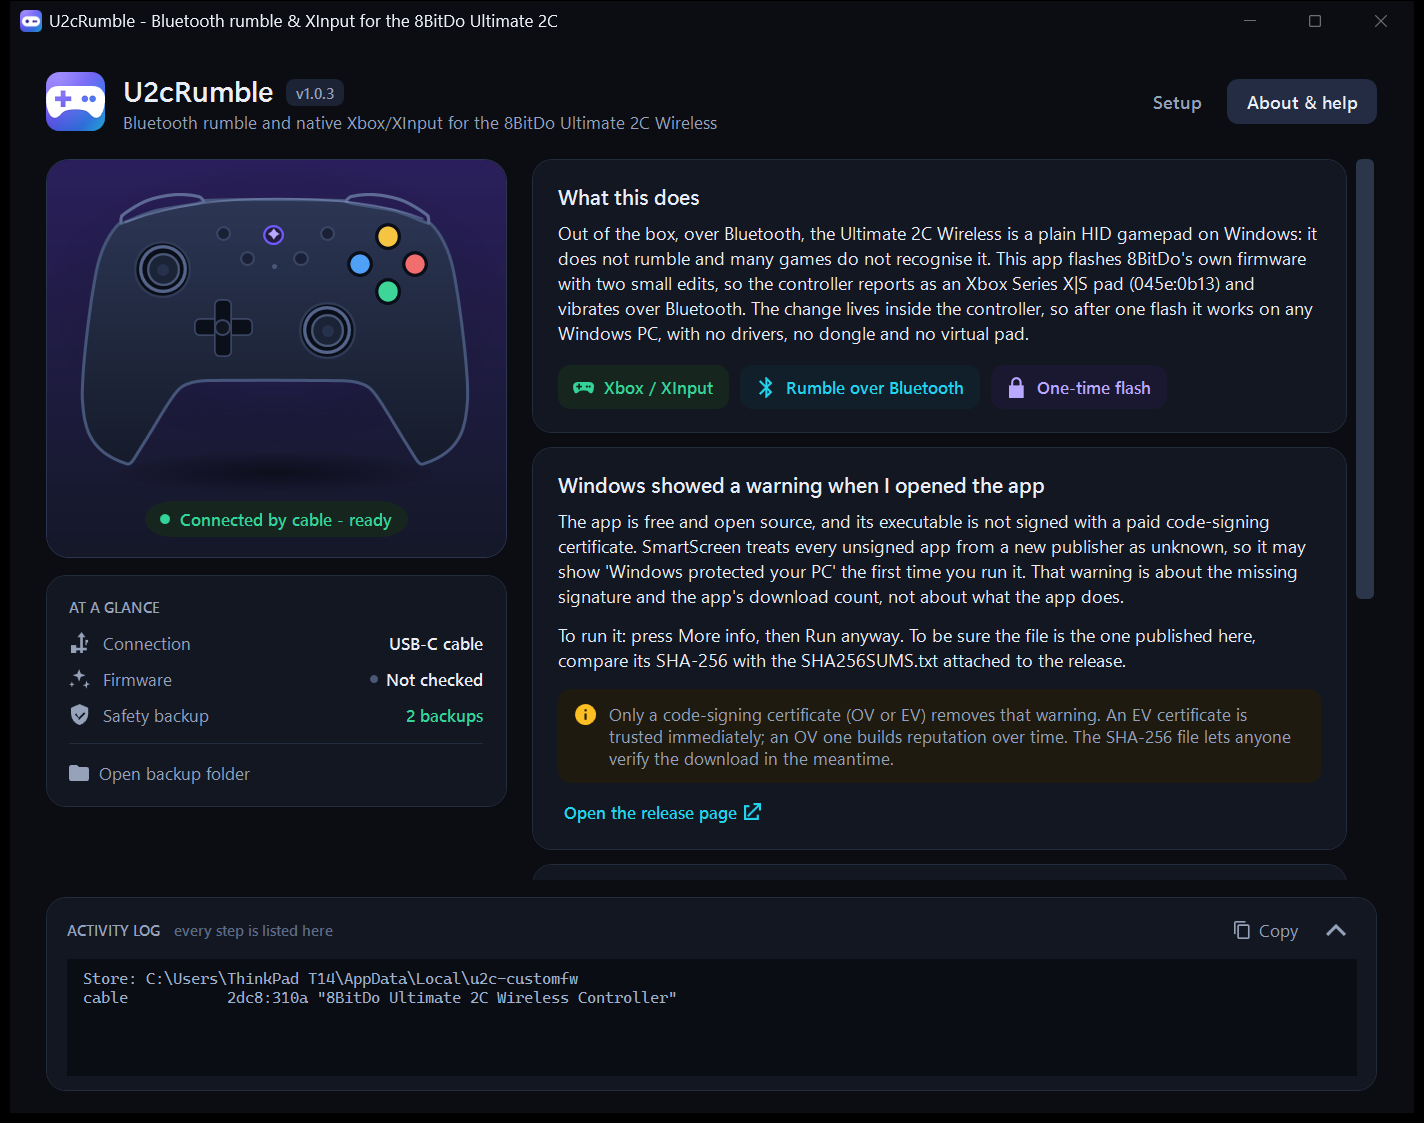
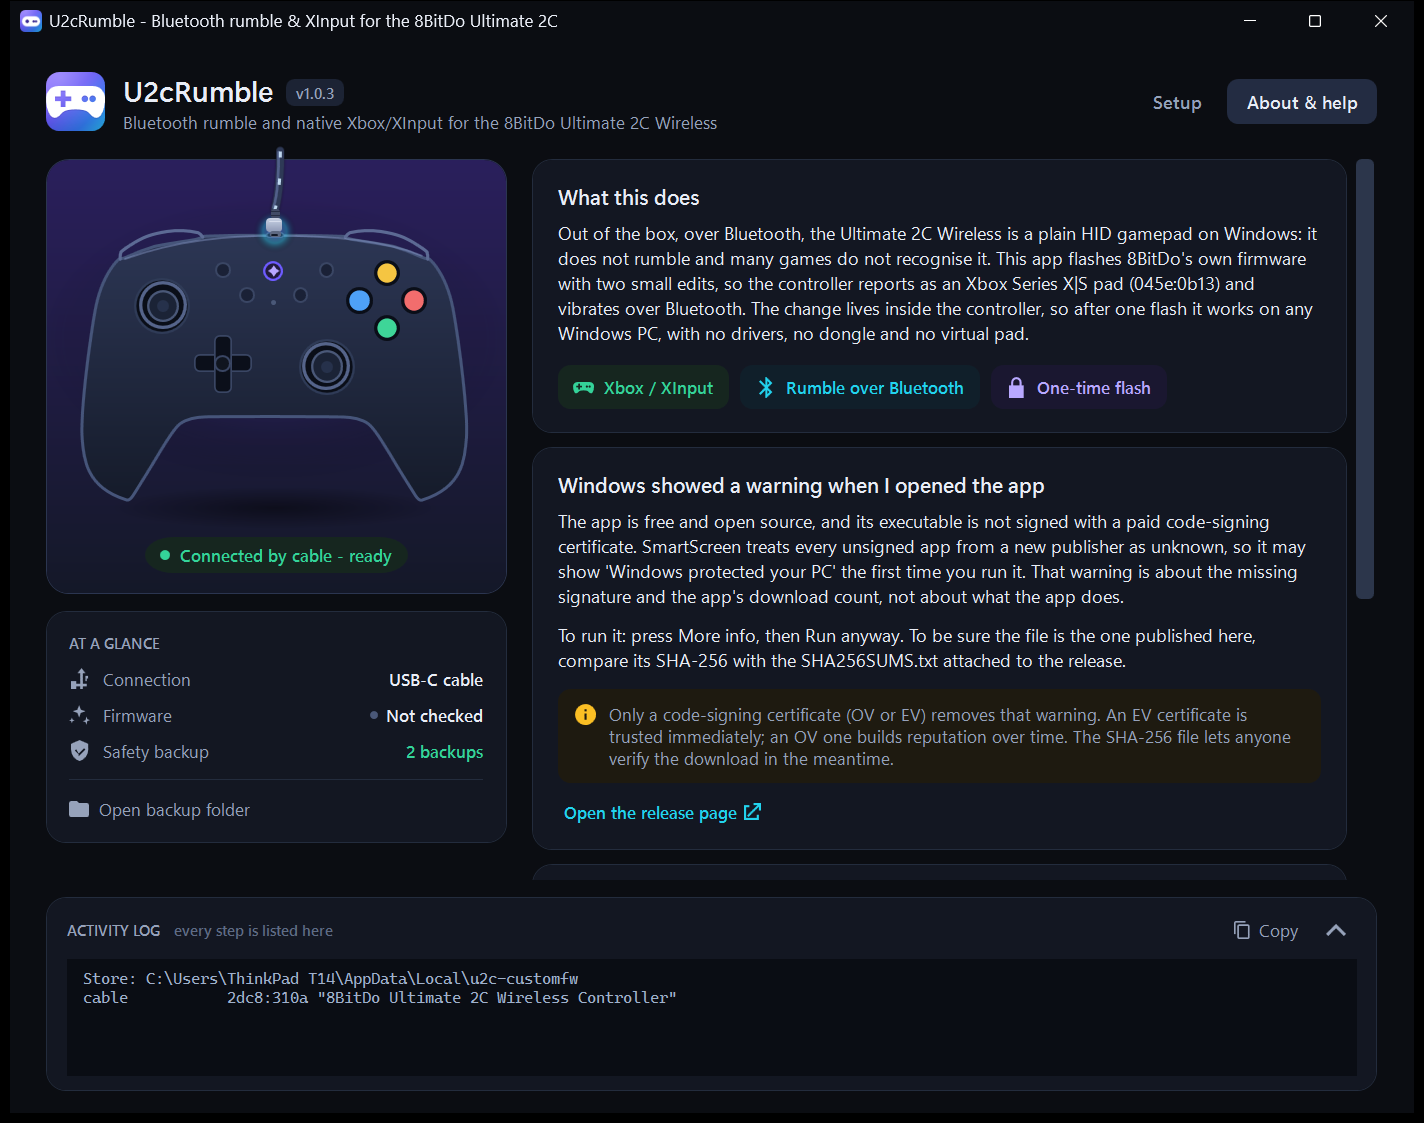
Keep the controller state live and draw the cable when it is plugged in
- Poll the HID devices every two seconds and only redraw when the mode changes.
- Drop the manual refresh button now that the window watches for the controller.
- Draw a straight USB-C cable with a pulsing glow and flowing dashes while the controller is on the cable.
- Give the illustration room for the cable and show the port on the top edge.
- Refresh the README screenshots.

diff --git a/app/U2cRumble/MainWindow.xaml b/app/U2cRumble/MainWindow.xaml
@@ -69,10 +69,10 @@
                 <Border Background="{StaticResource HeroGlow}" BorderBrush="#2B3550" BorderThickness="1"
                         CornerRadius="16" Padding="14,10,14,14">
                     <StackPanel>
-                        <Viewbox Height="232" Stretch="Uniform">
-                          <Canvas Width="246" Height="194">
+                        <Viewbox Height="258" Stretch="Uniform">
+                          <Canvas Width="246" Height="216">
                             <Canvas.RenderTransform>
-                                <TranslateTransform X="-78" Y="-32"/>
+                                <TranslateTransform X="-78" Y="-10"/>
                             </Canvas.RenderTransform>
                             <Canvas Width="400" Height="240">
                                 <!-- glow behind the body -->
@@ -185,6 +185,81 @@
                                          Fill="#221B3D" Stroke="#6D5BFF" StrokeThickness="1.4"/>
                                 <Path Fill="#B8A8FF"
                                       Data="M199 64.6 L200.4 66.6 L202.4 68 L200.4 69.4 L199 71.4 L197.6 69.4 L195.6 68 L197.6 66.6 Z"/>
+
+                                <!-- usb-c port on the top edge -->
+                                <Rectangle Canvas.Left="194.6" Canvas.Top="45.4" Width="10.8" Height="3.6"
+                                           RadiusX="1.5" RadiusY="1.5" Fill="#0A0E18" Stroke="#4A5878" StrokeThickness="0.8"/>
+
+                                <!-- cable plugged into the top edge, shown only over USB -->
+                                <Canvas x:Name="CableLayer" Opacity="0" Visibility="Collapsed" IsHitTestVisible="False">
+                                    <Canvas.Resources>
+                                        <Storyboard x:Key="CablePulse">
+                                            <DoubleAnimation Storyboard.TargetName="CableGlowScale" Storyboard.TargetProperty="ScaleX"
+                                                             From="0.9" To="1.12" Duration="0:0:1.6" AutoReverse="True"
+                                                             RepeatBehavior="Forever"/>
+                                            <DoubleAnimation Storyboard.TargetName="CableGlowScale" Storyboard.TargetProperty="ScaleY"
+                                                             From="0.9" To="1.12" Duration="0:0:1.6" AutoReverse="True"
+                                                             RepeatBehavior="Forever"/>
+                                            <DoubleAnimation Storyboard.TargetName="CableGlow" Storyboard.TargetProperty="Opacity"
+                                                             From="0.18" To="0.42" Duration="0:0:1.6" AutoReverse="True"
+                                                             RepeatBehavior="Forever"/>
+                                            <DoubleAnimation Storyboard.TargetName="CableFlow" Storyboard.TargetProperty="StrokeDashOffset"
+                                                             From="0" To="-11" Duration="0:0:1.2" RepeatBehavior="Forever"/>
+                                        </Storyboard>
+                                    </Canvas.Resources>
+
+                                    <Ellipse x:Name="CableGlow" Canvas.Left="188" Canvas.Top="32" Width="24" Height="24"
+                                             Opacity="0.26" IsHitTestVisible="False">
+                                        <Ellipse.Fill>
+                                            <RadialGradientBrush>
+                                                <GradientStop Color="#8B6CFF" Offset="0"/>
+                                                <GradientStop Color="#22D3EE" Offset="0.55"/>
+                                                <GradientStop Color="#00000000" Offset="1"/>
+                                            </RadialGradientBrush>
+                                        </Ellipse.Fill>
+                                        <Ellipse.RenderTransform>
+                                            <ScaleTransform x:Name="CableGlowScale" CenterX="12" CenterY="12"/>
+                                        </Ellipse.RenderTransform>
+                                    </Ellipse>
+
+                                    <!-- straight cable that leaves the frame at the top -->
+                                    <Path Stroke="#2E3956" StrokeThickness="4.8" StrokeStartLineCap="Round" StrokeEndLineCap="Round"
+                                          Data="M203.2,-4 C203.4,8 202.6,22 200,31.5">
+                                        <Path.Effect>
+                                            <DropShadowEffect BlurRadius="3" ShadowDepth="0" Opacity="0.45" Color="#05070D"/>
+                                        </Path.Effect>
+                                    </Path>
+                                    <Path Stroke="#5A6A96" StrokeThickness="1.6" Opacity="0.8"
+                                          StrokeStartLineCap="Round" StrokeEndLineCap="Round"
+                                          Data="M201.9,-3 C202.1,8.6 201.4,21.8 198.8,30"/>
+                                    <Path x:Name="CableFlow" Stroke="#CFE9FF" StrokeThickness="1.8" Opacity="0.9"
+                                          StrokeStartLineCap="Round" StrokeEndLineCap="Round"
+                                          StrokeDashArray="2 7"
+                                          Data="M203.2,-4 C203.4,8 202.6,22 200,31.5"/>
+
+                                    <!-- strain relief -->
+                                    <Rectangle Canvas.Left="197.4" Canvas.Top="30.6" Width="5.2" Height="6.6"
+                                               RadiusX="1.9" RadiusY="1.9" Fill="#414B66"/>
+                                    <Rectangle Canvas.Left="197.4" Canvas.Top="32.2" Width="5.2" Height="0.8" Fill="#252D42"/>
+                                    <Rectangle Canvas.Left="197.4" Canvas.Top="34.1" Width="5.2" Height="0.8" Fill="#252D42"/>
+
+                                    <!-- usb-c plug sitting on the port -->
+                                    <Rectangle Canvas.Left="195.2" Canvas.Top="36.6" Width="9.6" Height="8.4"
+                                               RadiusX="2.2" RadiusY="2.2">
+                                        <Rectangle.Fill>
+                                            <LinearGradientBrush StartPoint="0,0" EndPoint="0,1">
+                                                <GradientStop Color="#C8D1E4" Offset="0"/>
+                                                <GradientStop Color="#8C98B4" Offset="1"/>
+                                            </LinearGradientBrush>
+                                        </Rectangle.Fill>
+                                    </Rectangle>
+                                    <Rectangle Canvas.Left="196.4" Canvas.Top="37.7" Width="7.2" Height="1"
+                                               RadiusX="0.5" RadiusY="0.5" Fill="#EDF2FB" Opacity="0.55"/>
+                                    <Rectangle Canvas.Left="196.8" Canvas.Top="44.5" Width="6.4" Height="3.8"
+                                               RadiusX="1.4" RadiusY="1.4" Fill="#5E6982"/>
+                                    <Rectangle Canvas.Left="197.8" Canvas.Top="46" Width="4.4" Height="1.4"
+                                               RadiusX="0.7" RadiusY="0.7" Fill="#141A28"/>
+                                </Canvas>
                             </Canvas>
                           </Canvas>
                         </Viewbox>
@@ -312,11 +387,6 @@
                                             <TextBlock x:Name="ConnectionChipText" FontSize="11.5" FontWeight="SemiBold"
                                                        Foreground="{StaticResource MutedBrush}" Text="Not found"/>
                                         </Border>
-                                        <Button x:Name="RefreshButton" AutomationProperties.AutomationId="RefreshButton" Style="{StaticResource GhostButton}" Margin="6,0,0,0"
-                                                Click="Refresh_Click" ToolTip="Look for the controller again" Padding="6">
-                                            <Path Data="{StaticResource IconRefresh}" Width="15" Height="15" Stretch="Uniform"
-                                                  Fill="{Binding Foreground, RelativeSource={RelativeSource AncestorType=Button}}"/>
-                                        </Button>
                                     </StackPanel>
                                 </Grid>
                             </Border>

diff --git a/app/U2cRumble/Theme.xaml b/app/U2cRumble/Theme.xaml
@@ -63,7 +63,6 @@
     <Geometry x:Key="IconUndo">M12 5V1L7 6l5 5V7a6 6 0 1 1-6 6H4a8 8 0 1 0 8-8z</Geometry>
     <Geometry x:Key="IconShield">M12 1 3 5v6c0 5.5 3.8 10.7 9 12 5.2-1.3 9-6.5 9-12V5l-9-4zm-1 15-4-4 1.4-1.4L11 15.2l5.6-5.6L18 11l-7 7z</Geometry>
     <Geometry x:Key="IconCable">M15 7v4h1v2h-3V5h2L12 1 9 5h2v8H8v-2H4v6h4v-2h3v2h2v-2h3V9h1V7h-2z</Geometry>
-    <Geometry x:Key="IconRefresh">M17.6 6.4A8 8 0 1 0 19.7 14h-2.1a6 6 0 1 1-1.4-6.2L13 11h7V4l-2.4 2.4z</Geometry>
     <Geometry x:Key="IconCopy">M16 1H4a2 2 0 0 0-2 2v14h2V3h12V1zm3 4H8a2 2 0 0 0-2 2v14a2 2 0 0 0 2 2h11a2 2 0 0 0 2-2V7a2 2 0 0 0-2-2zm0 16H8V7h11v14z</Geometry>
     <Geometry x:Key="IconExternal">M14 3v2h3.6l-9.8 9.8 1.4 1.4L19 6.4V10h2V3h-7zM5 5h5v2H7v10h10v-3h2v5H5V5z</Geometry>
     <Geometry x:Key="IconFolder">M10 4H4a2 2 0 0 0-2 2v12a2 2 0 0 0 2 2h16a2 2 0 0 0 2-2V8a2 2 0 0 0-2-2h-8l-2-2z</Geometry>

diff --git a/app/U2cRumble/MainWindow.xaml.cs b/app/U2cRumble/MainWindow.xaml.cs
@@ -6,6 +6,7 @@ using System.Windows;
 using System.Windows.Automation;
 using System.Windows.Interop;
 using System.Windows.Media;
+using System.Windows.Media.Animation;
 using System.Windows.Threading;
 using U2cRumble.Core;
 using U2cRumble.Core.Ops;
@@ -21,7 +22,10 @@ public partial class MainWindow : Window
 
     private readonly FlashService _service = new();
     private readonly DispatcherTimer _hintTimer = new() { Interval = TimeSpan.FromSeconds(2.5) };
+    private readonly DispatcherTimer _watchTimer = new() { Interval = TimeSpan.FromSeconds(2) };
     private bool _busy;
+    private bool _probing;
+    private bool _cableShown;
     private IReadOnlyList<string> _modes = Array.Empty<string>();
     private string _deviceSignature = string.Empty;
     private bool _planChanges;
@@ -52,7 +56,15 @@ public partial class MainWindow : Window
         };
 
         Log($"Store: {_service.Store}");
-        Loaded += async (_, _) => await RefreshDevicesAsync();
+
+        // keeps the cable and Bluetooth state live while the window is open
+        _watchTimer.Tick += async (_, _) => await PollAsync();
+        Loaded += async (_, _) =>
+        {
+            await RefreshDevicesAsync();
+            _watchTimer.Start();
+        };
+        Closed += (_, _) => _watchTimer.Stop();
     }
 
     // makes the title bar match the dark window on Windows 11
@@ -103,6 +115,45 @@ public partial class MainWindow : Window
             SetBusy(false);
         }
     }
+
+    // polls for a plugged or unplugged controller and redraws only when the state changes
+    private async Task PollAsync()
+    {
+        if (_busy || _probing)
+            return;
+
+        _probing = true;
+        try
+        {
+            var modes = await Task.Run(() => _service.Find().Select(f => f.Mode).ToList());
+            if (SameModes(modes, _modes))
+                return;
+
+            var lines = await Task.Run(() => _service.DescribeDevices());
+            var signature = string.Join("\n", lines);
+            if (signature != _deviceSignature)
+            {
+                _deviceSignature = signature;
+                foreach (var line in lines)
+                    Log(line);
+            }
+
+            _modes = modes;
+            ApplyDeviceState(modes);
+        }
+        catch
+        {
+            // a poll that fails must not interrupt whatever the window is doing
+        }
+        finally
+        {
+            _probing = false;
+        }
+    }
+
+    // the order devices come back in is not stable, so compare them sorted
+    private static bool SameModes(IReadOnlyList<string> a, IReadOnlyList<string> b) =>
+        a.Count == b.Count && a.OrderBy(m => m).SequenceEqual(b.OrderBy(m => m));
 
     // maps the device modes onto the status pill, the connection row and the buttons
     private void ApplyDeviceState(IReadOnlyList<string> modes)
@@ -162,7 +213,43 @@ public partial class MainWindow : Window
         };
         BackupText.Foreground = count > 0 ? Brush("SuccessBrush") : Brush("MutedBrush");
 
+        SetCableVisual(boot || cable);
         ApplyButtonState();
+    }
+
+    // fades the drawn cable in over USB, and out when the controller is unplugged
+    private void SetCableVisual(bool shown)
+    {
+        if (shown == _cableShown)
+            return;
+
+        _cableShown = shown;
+        var pulse = (Storyboard)CableLayer.Resources["CablePulse"];
+
+        if (shown)
+        {
+            CableLayer.Visibility = Visibility.Visible;
+            CableLayer.Opacity = 1;
+            CableLayer.BeginAnimation(OpacityProperty, new DoubleAnimation(0, 1, TimeSpan.FromMilliseconds(280))
+            {
+                FillBehavior = FillBehavior.Stop,
+            });
+            pulse.Begin(this, true);
+            return;
+        }
+
+        pulse.Stop(this);
+        CableLayer.Opacity = 0;
+        var fade = new DoubleAnimation(1, 0, TimeSpan.FromMilliseconds(180))
+        {
+            FillBehavior = FillBehavior.Stop,
+        };
+        fade.Completed += (_, _) =>
+        {
+            if (!_cableShown)
+                CableLayer.Visibility = Visibility.Collapsed;
+        };
+        CableLayer.BeginAnimation(OpacityProperty, fade);
     }
 
     // the steps that need the controller by cable stay disabled until it is there
@@ -171,7 +258,6 @@ public partial class MainWindow : Window
         var ready = !_busy;
         var byCable = _modes.Contains("cable") || _modes.Contains("cable_360") || _modes.Contains("boot");
 
-        RefreshButton.IsEnabled = ready;
         BackupButton.IsEnabled = ready && byCable;
         CheckButton.IsEnabled = ready && byCable;
 
@@ -330,8 +416,6 @@ public partial class MainWindow : Window
         SetupView.Visibility = about ? Visibility.Collapsed : Visibility.Visible;
         AboutView.Visibility = about ? Visibility.Visible : Visibility.Collapsed;
     }
-
-    private async void Refresh_Click(object sender, RoutedEventArgs e) => await RefreshDevicesAsync();
 
     private async void Backup_Click(object sender, RoutedEventArgs e)
     {
